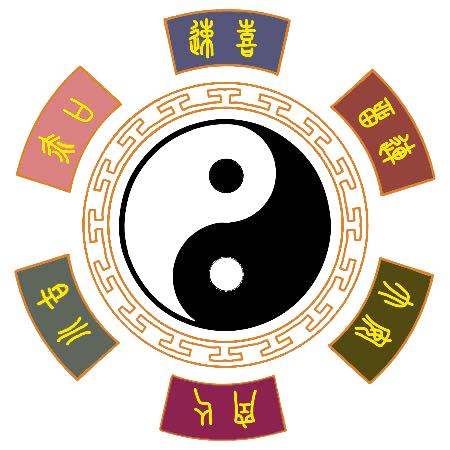
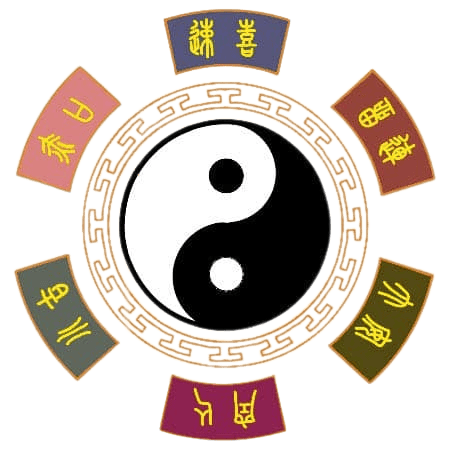
增加首页以及背景图

diff --git a/pages/index/index.js b/pages/index/index.js
@@ -9,13 +9,30 @@ Page({
     current: 0,
     imgload:true,
     imgnoload:false,
-    imgOpacity:0
   },
   /**
    * 生命周期函数--监听页面加载
    */
   onLoad: async function () {
     this.openid = await getApp().getOpenid()
+    var openid = this.openid
+    db.collection("user_info").where({
+      _openid:openid   //进行筛选
+    }).get().then(res=>{
+      console.log(res.data.length)
+      if(res.data.length==0){
+        db.collection("user_info").add({
+          data:{
+            status:0,
+            datetime:db.serverDate(),
+            lottery:0
+          }
+        })
+      }
+      else{
+        console.log("已有该用户")
+      }
+    })
   },
   imgload:function(){
       this.setData({
@@ -94,32 +111,18 @@ Page({
 
   },
   gototool(){
-    var date = new Date()
-    var openid = this.openid
-    db.collection("user_info").where({
-      _openid:openid   //进行筛选
-    }).get().then(res=>{
-      console.log(res.data.length)
-      if(res.data.length==0){
-        db.collection("user_info").add({
-          data:{
-            status:0,
-            datetime:db.serverDate(),
-            lottery:0
-          }
-        })
-      }
-      else{
-        console.log("已有该用户")
-      }
+    wx.navigateTo({
+      url: '../../datetime/pages/datetime/datetime',
     })
-    this.setData({
-      imgOpacity:1
+  },
+  gotoinfo(){
+    wx.navigateTo({
+      url: '../info/info',
     })
-    setTimeout(()=>{
-      wx.navigateTo({
-        url: '../../datetime/pages/datetime/datetime',
-      })
-      },1500)
+  },
+  gotomine(){
+    wx.navigateTo({
+      url: '../mine/mine',
+    })
   }
 })